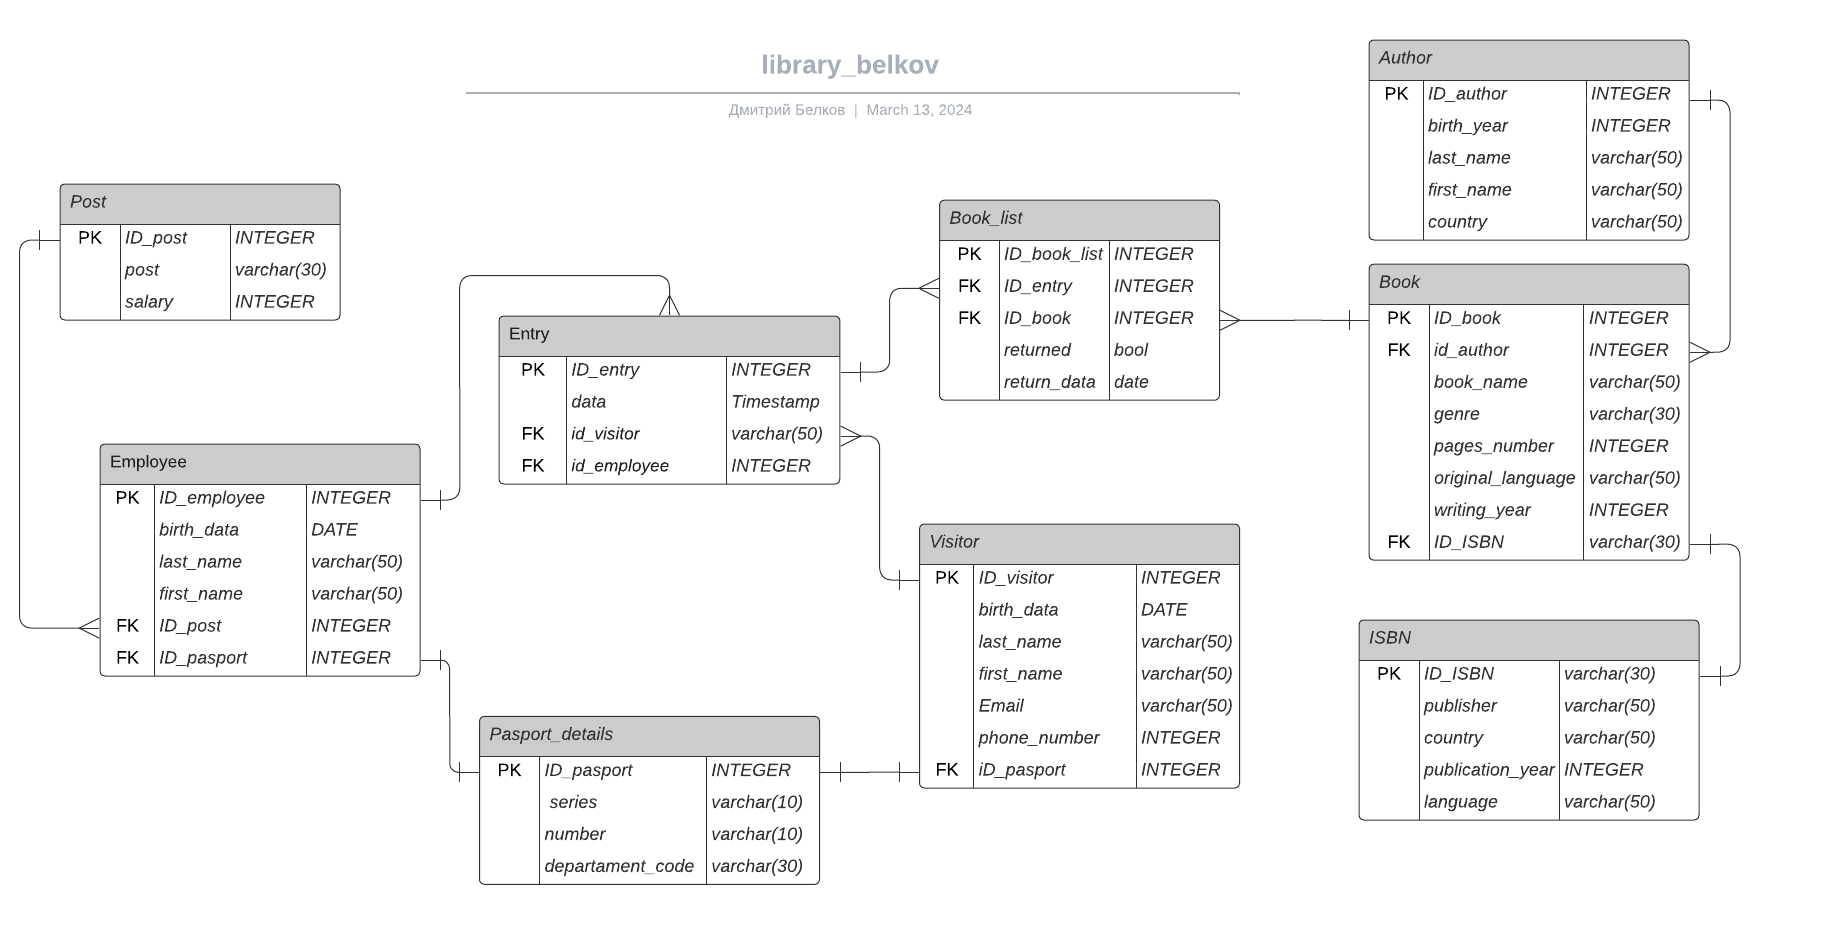
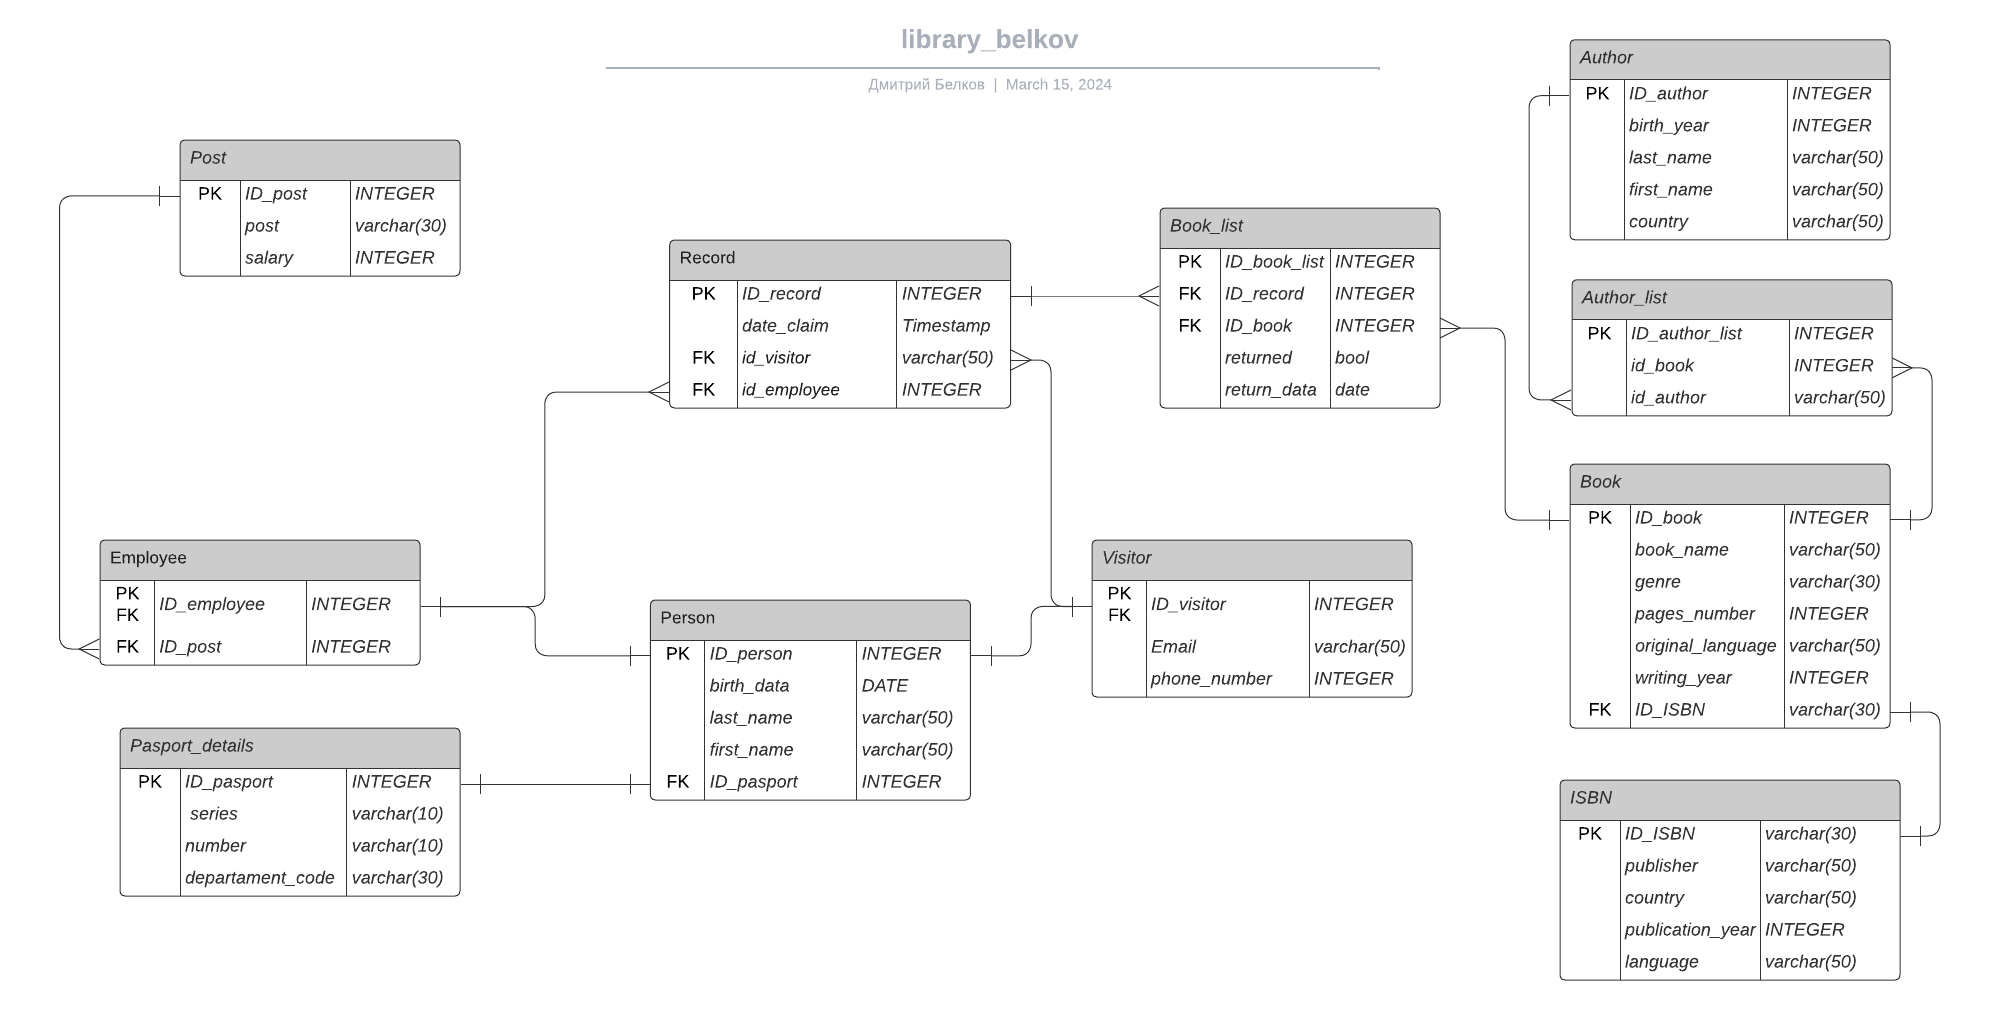
added new tables PERSON and AUTHOR_LIST

Changed region(s): [[0.0311, 0.031, 0.9656, 0.9605], [0.0311, 0.1239, 0.2492, 0.3408], [0.3115, 0.031, 0.6852, 0.1239]]

diff --git a/README.md b/README.md
@@ -1,41 +1,45 @@
-# Тема – Библиотека 
+# Тема – Библиотека
  Предметной областью описанной логической моделью является электронный документооборот в библиотеке.
 Цель системы – структурирование и упорядочивание хранимых данных об отпускаемых посетителям книгах.
 # Объекты предметной области:
 #### Запись
-Центральный объект системы. Хранит данных о времени получения книги, получателе и работнике библиотеки, который зарегистрировал действие, а также информацию о том были ли возвращены книги. Данные для данного объекта хранятся в таблице Entry. Содержит следующие поля:
-#####  таблица Entry:
--	ID_entry – первичный ключ записи
--	data – дата и время выдачи книг
+Центральный объект системы. Хранит данных о времени получения книги, получателе и работнике библиотеки, который зарегистрировал действие, а также информацию о том были ли возвращены книги. Данные для данного объекта хранятся в таблице Record. Содержит следующие поля:
+#####  таблица Record:
+-	ID_record – первичный ключ записи
+-	date_claim – дата и время выдачи книг
 -	id_visitor – внешний ключ ссылающийся на запись в таблице с данными о посетителях
 -	id_emloyee – внешний ключ ведущий на запись в таблице с данными о работнике который выдал книги
 
-Для хранения данных о работнике используется таблица Employee. В будущем возможно использование данных из таблицы в отделе бухгалтерии или в системе учета сотрудников. В данной схеме это не рассматривается. 
-##### таблица Employee.
--	Id_employee – первичный ключ
+Персональные данные сотрудников и посетителей хранятся в таблице Person
+##### таблица Person
+- Id_person - первичный ключ
 -	birth_data – дата рождения
 -	last_name – фамилия работника
 -	first_name – имя работника
--	id_post – внешний ключ ссылающийся на запись с должностью работника в вспомогательной таблице
 -	id_passport – внешний ключ на таблицу хранящую паспортные данные посетителей и работников
 
-Для хранения названия должностей есть отдельная таблица. Это реализовано в целях оптимизации памяти, так как должности могут повторятся, и лучше будет хранить их в отдельной таблице в записи с типом данных varchar(30) и ссылаться из основной таблицы из записи с типо INTEGER которая занимает меньше памяти. 
-##### вспомогательная таблица Post 
--	ID_post – первичный ключ
--	Post – название должности
--	Salary – оклад должности
-
-Паспортные данные как сотрудников так и посетителей хранятся в таблице Pasport_details 
-##### таблица Pasport_details 
+Паспортные данные как сотрудников так и посетителей хранятся в таблице Pasport_details
+##### таблица Pasport_details
 -	ID_pasport– первичный ключ
 -	series – серия паспорта
 -	number – номер паспорта
 -	department_code – код отделения выдавшего паспорт
 
-Для хранения данных о книгах используется таблица Book. В одной записи о выдаче книг может быть несколько книг, так и к одной книге может относится несколько записей о выдаче в разное время. На таблицу Book ссылается таблица записей посредством связи многие-ко-многим. 
+Для хранения данных о работнике используется таблица Employee. В будущем возможно использование данных из таблицы в отделе бухгалтерии или в системе учета сотрудников. В данной схеме это не рассматривается.
+##### таблица Employee.
+-	Id_employee – первичный ключ
+-	id_post – внешний ключ ссылающийся на запись с должностью работника в вспомогательной таблице
+
+Для хранения названия должностей есть отдельная таблица. Это реализовано в целях оптимизации памяти, так как должности могут повторятся, и лучше будет хранить их в отдельной таблице в записи с типом данных varchar(30) и ссылаться из основной таблицы из записи с типо INTEGER которая занимает меньше памяти.
+##### вспомогательная таблица Post
+-	ID_post – первичный ключ
+-	Post – название должности
+-	Salary – оклад должности
+
+
+Для хранения данных о книгах используется таблица Book. В одной записи о выдаче книг может быть несколько книг, так и к одной книге может относится несколько записей о выдаче в разное время. На таблицу Book ссылается таблица записей посредством связи многие-ко-многим.
 ##### таблица Book:
 -	Id_book – первичный ключ
--	id_author – внешний ключ ссылающийся на таблицу с данными о авторах книг
 -	book_name – название книги
 -	genre – жанр книги
 -	pages_number – количество страниц
@@ -51,7 +55,7 @@
 -	returned - метка обозначающая вернули ли книгу по этой записи
 -	return_data - дата до какого числа была выдана книга, при продлении данные обновляются
 
-Данные о авторах книг хранятся в отдельной таблице Author. Одному автору может сответствовать несколько книг, по этому связь таблиц книг и авторов имеет вид "многие к одному".
+Данные о авторах книг хранятся в отдельной таблице Author.
 ##### таблица Author:
 -	Id_author – первичный ключ
 -	birth_year– год рождения автора
@@ -59,7 +63,13 @@
 -	first_name – имя автора
 -	country – страна рождения автора
 
-таблица ISBN хранит данные о издании книги. ISBN - уникальный международный код книг хранящий информацию о конкретном издании книги. Для каждого существующего издания книги существует свой код ISBN. 
+Одному автору может сответствовать несколько книг, и у одной книги может быть несколько авторов, по этому связь таблиц книг и авторов имеет вид "многие ко многим" и реализована с помощью вспомогательной таблицы author_list.
+##### таблица author_list:
+-	Id_author – первичный ключ
+-	id_book – внешний ключ на таблицу book
+- id_author - внешний ключ на таблицу author
+
+таблица ISBN хранит данные о издании книги. ISBN - уникальный международный код книг хранящий информацию о конкретном издании книги. Для каждого существующего издания книги существует свой код ISBN.
 ##### таблица ISBN
 -	Id_ISBN – первичный ключ
 -	publisher– название издания книги
@@ -71,19 +81,14 @@
 Для хранения данных о посетителях библиотеки выделена таблица Visitor. В ней хранятся личных данных для каждого посетителя и контактные данных для того что бы связаться в случае невозврата книги в срок.
 ##### таблица Visitor:
 -	Id_visitor – первичный ключ
--	birth_data – дата рождения
--	last_name – фамилия посетителя
--	first_name – имя посетителя
 -	Email – электронная почта
 -	phone_number – личный телефонный номер
--	id_passport – внешний ключ на таблицу хранящую паспортные данные посетителей и работников
 
 Построение схемы велось в. [lucid.app]
 Первичные ключи – `PK`
 Внешние ключи – `FK`
 
-[![N|Solid](https://i.ibb.co/mb9VJZq/Library-belkov.png)](https://i.ibb.co/mb9VJZq/Library-belkov.png)
+[![N|Solid](https://i.ibb.co/WghzfG7/library-belkov.png)](https://i.ibb.co/WghzfG7/library-belkov.png)
 
 
    [lucid.app]:https://lucid.app/
-  
